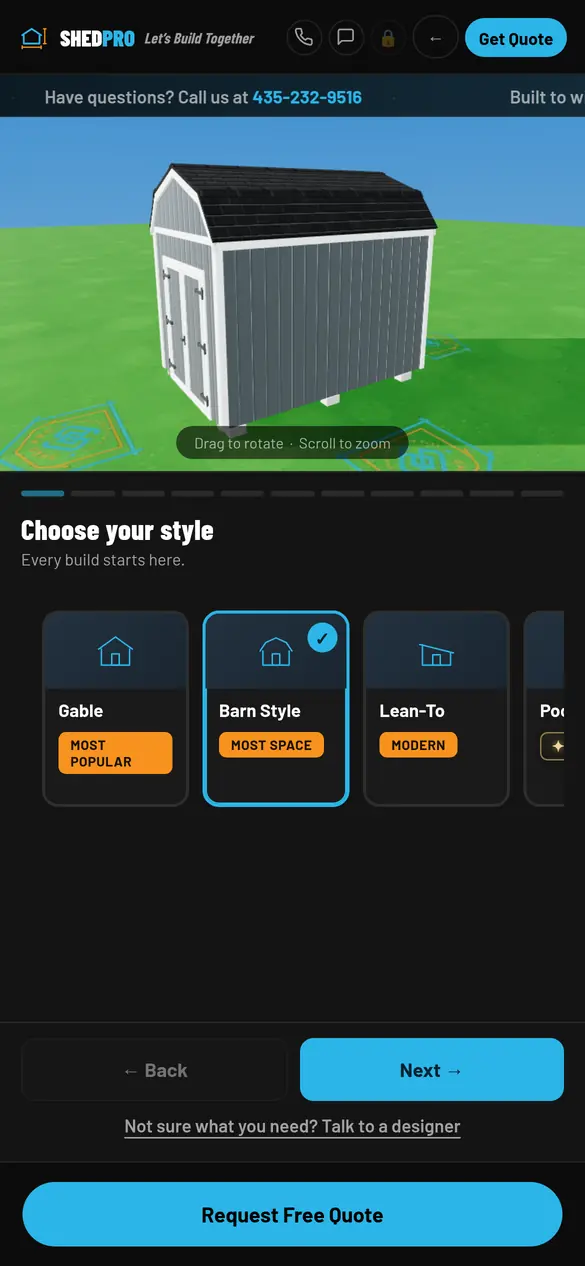
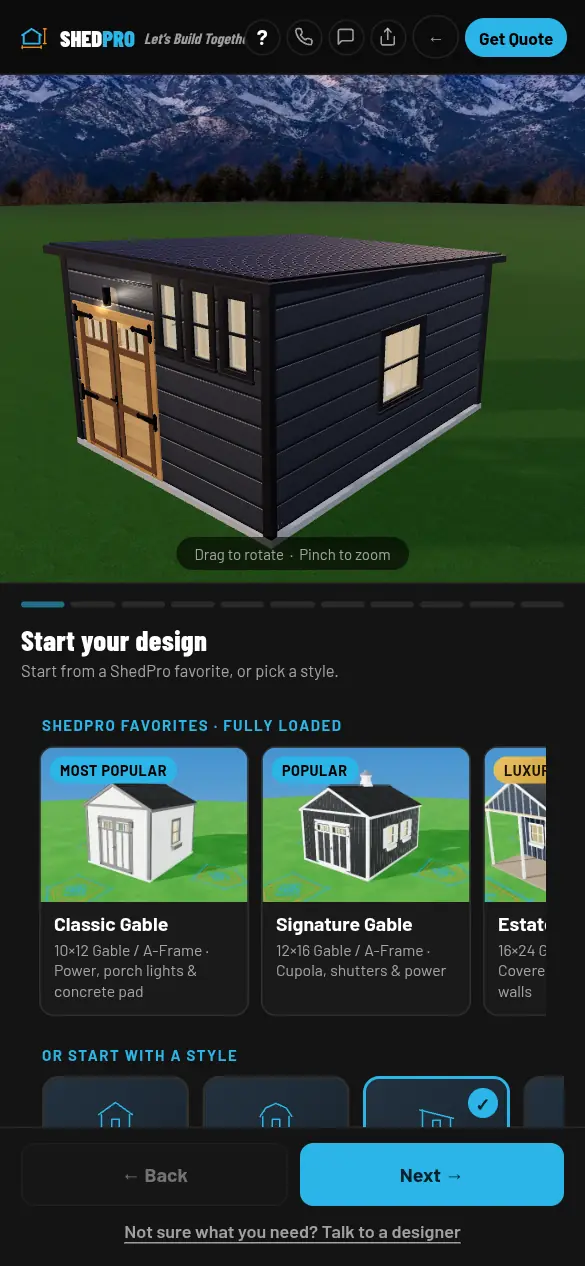
Designer trust + lean-to: Modern Studio gets three vertical transoms under the roofline and one porch light over the door; floating review bubble (home page reviews, verbatim); $500 concrete pad promo on foundation, review and quote (auto-hides Nov 4, 2026); fresh starter thumbnails and home-page de

diff --git a/designer-trust.js b/designer-trust.js
@@ -1,0 +1,253 @@
+/* designer-trust.js — credibility + promo inside the 3D designer.
+   1. A small floating review bubble over the 3D view (bottom-left on desktop,
+      a compact pill above the "Drag to rotate" hint on phones). It rotates
+      through the REAL reviews shown on the home page (#reviews in index.html),
+      copied verbatim with the names exactly as the home page shows them.
+      tests/ui/trust.test.mjs fails if any of them drifts from index.html, so
+      if you edit the home page reviews, paste the same change here.
+      Tap to expand into a card with 3 full reviews; x dismisses it for the
+      session. It steps aside whenever another overlay needs that corner (the
+      resume card, the consult nudge, the wall picker, edit mode, a dialog).
+   2. The "$500 off a concrete pad" promo from the home page (same wording,
+      same end date, same auto-hide on Nov 4, 2026). Display only: it does not
+      touch the price, the same as on the home page.
+   If this file fails to load, the designer works exactly as before. */
+(function(){
+'use strict';
+var DT = window.DT = window.DT || {};
+
+/* ── 1. REVIEWS (verbatim from index.html #reviews) ── */
+var REVIEWS = [
+  {"src": "google", "name": "Steven E.", "label": "Google review", "stars": 5, "text": "The people at ShedproUT did a fantastic job. They communicated well, they did what they said they were going to do and at a fair price. The workmanship Is great. I look forward to enjoying the shed for years."},
+  {"src": "facebook", "name": "Ashley M.", "label": "Facebook recommendation", "stars": null, "text": "Christian with Shed Pro is incredible! He came over to our home to give us a quote, gave us a few options and worked with what we had. Incredibly professional and easy going guy. Shed was put up in one day and is perfection! Communication was great, did exactly what we asked him to, I will only recommend him from now on. He is very competitive in his prices, and his work is top notch. Stop looking and go with Shed Pro!"},
+  {"src": "google", "name": "Steve P.", "label": "Google review", "stars": 5, "text": "The team from Shedpro did an amazing job of building our shed. We are delighted to have our new shed! The workmanship is excellent and the shed looks so nice! They communicated well and asked great questions to build it to the specifications that we wanted. Thank you! Thank you!"},
+  {"src": "facebook", "name": "Klay H.", "label": "Facebook recommendation", "stars": null, "text": "Christian and his crew came over and completed the project in one day. They were super professional, they did an incredible job, and the customer service was awesome! Before they finished up, they asked me to come take a look and see if everything was done how I had wanted. The entire project was done with a lot of attention to detail, and everything that they said they would do, was completed professionally! I would totally recommend these guys!"},
+  {"src": "google", "name": "Abi S.", "label": "Google review", "stars": 5, "text": "Christian is very professional, super reliable and extremely knowledgeable. He came out and helped design a beautiful shed that fit the space, the work was done without cutting corners, you can tell everything was done right and will last. We're so happy we went with his company and would 100% recommend"},
+  {"src": "facebook", "name": "Liz J.", "label": "Facebook recommendation", "stars": null, "text": "We had a great experience with Shed Pro! They exceeded our expectations and had no problem with some changes we made on the day of the build. Their attention to detail is phenomenal and we highly recommend them!"},
+  {"src": "google", "name": "Kseniya T.", "label": "Google review", "stars": 5, "text": "Fast and on-budget! We talked about designs on a Saturday and it was complete on Thursday, and they were able to accommodate all my special requests. Christian and his crew are so skilled and efficient, and left barely a screw or nail behind when they were done. Highly recommend!"},
+  {"src": "facebook", "name": "Staci G.", "label": "Facebook recommendation", "stars": null, "text": "Cristian was great to work with. Wonderful communication through the entire process and very patient with all my questions. Shed looks great and very well built. I will be telling everyone I know about Shed Pro."},
+  {"src": "google", "name": "Amanda C.", "label": "Google review", "stars": 5, "text": "Love love how my she-shed turned out! Christian and his crew came out and built it on site and it only took them two days to do so. I love it! Great communication also :)"},
+  {"src": "facebook", "name": "Sharla H.", "label": "Facebook recommendation", "stars": null, "text": "Shed Pro did such a great job. I had a small back corner on my lot and needed extra storage. They built the shed onsite and I got maximum storage for my space. Quality work, high quality, easy to work with! It looks great. I'm so pleased!"},
+  {"src": "google", "name": "Austen W.", "label": "Google review", "stars": 5, "text": "I’ve been debating building my own shed for years now. Once they came out and gave me a bid, I finally went with them. Best decision ever. What took them only 4-5 hours, would’ve taken me all summer. Superb quality, and it was exactly what I wanted. Highly recommend!"},
+  {"src": "facebook", "name": "Rachel M.", "label": "Facebook recommendation", "stars": null, "text": "Shed Pro did an incredible job for us! We did a 12x14 barn style shed and they finished it in one day! I love how you can customize it to fit your budget and their prices were way better then any shed lot around or Home Depot. Highly recommend! We love our shed!"},
+  {"src": "google", "name": "Scott H.", "label": "Google review", "stars": 5, "text": "I am very happy with my shed they built, they were very fast, they were there on time, and the quality is top notch!\nEverything I asked for they did, they were very kind and great to work with!! I would strongly recommend going with Shed Pro."},
+  {"src": "google", "name": "Brian F.", "label": "Google review", "stars": 5, "text": "Six Stars! Shed Pro was easy to work with and did custom work fast. A high quality build at pricing below HomeDepot. It was a joy to work with them!"},
+  {"src": "google", "name": "Rubi G.", "label": "Google review", "stars": 5, "text": "The customer service provided by ShedPro is top notch, and their sheds are absolutley beautiful. They pay great attention to detail, and it really shows in their craftsmanship. Highly recommend!"}
+];
+/* The real totals the home page shows (rating pills + #reviews header). */
+var TOTALS = { google:{rating:'5.0', count:22}, facebook:{rec:'100%', count:21} };
+var ALL_REVIEWS_URL = '/#reviews';
+var GOOGLE_URL = 'https://search.google.com/local/reviews?placeid=ChIJwwlFnLcoHgERAfeFtnSUYNc';
+DT.REVIEWS = REVIEWS; DT.TOTALS = TOTALS;
+
+/* ── 2. PROMO (mirrors index.html PROMO block; remove after Nov 3, 2026) ── */
+var PROMO = {
+  ends: '2026-11-04T00:00:00',          // hides from Nov 4, 2026 (local), like the home page
+  main: '$500 off a concrete pad when you buy a shed.',
+  fine: 'Valid through Nov 3, 2026 while weather allows. Select sizes only. Ask your rep for details.'
+};
+DT.PROMO = PROMO;
+DT.now = function(){ return new Date(); };            // tests override this
+DT.promoActive = function(){ return DT.now() < new Date(PROMO.ends); };
+
+function esc(t){ return String(t==null?'':t).replace(/[&<>"']/g,function(c){return {'&':'&amp;','<':'&lt;','>':'&gt;','"':'&quot;',"'":'&#39;'}[c];}); }
+function ss(k,v){ try{ if(v===undefined) return sessionStorage.getItem(k); sessionStorage.setItem(k,v); }catch(e){ return null; } }
+function reduced(){ try{ return matchMedia('(prefers-reduced-motion: reduce)').matches; }catch(e){ return false; } }
+var STAR='<svg viewBox="0 0 20 20" aria-hidden="true"><path d="M10 1.6l2.6 5.3 5.8.8-4.2 4.1 1 5.8L10 14.9l-5.2 2.7 1-5.8L1.6 7.7l5.8-.8z"/></svg>';
+var GMARK='<svg class="dt-g" viewBox="0 0 48 48" aria-hidden="true"><path fill="#FFC107" d="M43.6 20.1H42V20H24v8h11.3C33.7 32.7 29.2 36 24 36c-6.6 0-12-5.4-12-12s5.4-12 12-12c3.1 0 5.8 1.2 8 3l5.7-5.7C34 6.1 29.3 4 24 4 13 4 4 13 4 24s9 20 20 20 20-9 20-20c0-1.3-.1-2.6-.4-3.9z"/><path fill="#FF3D00" d="M6.3 14.7l6.6 4.8C14.7 15.1 19 12 24 12c3.1 0 5.8 1.2 8 3l5.7-5.7C34 6.1 29.3 4 24 4 16.3 4 9.7 8.3 6.3 14.7z"/><path fill="#4CAF50" d="M24 44c5.2 0 9.9-2 13.4-5.2l-6.2-5.2c-2 1.5-4.5 2.4-7.2 2.4-5.2 0-9.6-3.3-11.3-7.9l-6.5 5C9.5 39.6 16.2 44 24 44z"/><path fill="#1976D2" d="M43.6 20.1H42V20H24v8h11.3c-.8 2.2-2.2 4.2-4.1 5.6l6.2 5.2C37 39.2 44 34 44 24c0-1.3-.1-2.6-.4-3.9z"/></svg>';
+var FMARK='<svg class="dt-g" viewBox="0 0 24 24" aria-hidden="true"><circle cx="12" cy="12" r="12" fill="#1877F2"/><path fill="#fff" d="M13.4 19.5v-6.1h2.1l.3-2.4h-2.4V9.4c0-.7.2-1.2 1.2-1.2h1.3V6.1c-.2 0-1-.1-1.9-.1-1.9 0-3.2 1.2-3.2 3.3V11H8.7v2.4h2.1v6.1z"/></svg>';
+function rating(r){
+  return r.src==='google'
+    ? '<span class="dt-stars" role="img" aria-label="5 out of 5 stars">'+STAR+STAR+STAR+STAR+STAR+'</span>'
+    : '<span class="dt-rec">Recommends</span>';
+}
+function mark(r){ return r.src==='google' ? GMARK : FMARK; }
+
+var DISMISS_KEY='dt_reviews_dismissed';
+var idx=0, timer=null, host=null, expanded=false;
+
+function slideHTML(r){
+  return '<span class="dt-src">'+mark(r)+rating(r)+'</span>'+
+    '<span class="dt-q">\u201C'+esc(r.text.replace(/\s*\n\s*/g,' '))+'\u201D</span>'+
+    '<span class="dt-who">'+esc(r.name)+' \u00B7 '+esc(r.label)+'</span>';
+}
+function cardHTML(){
+  var picks=[0,1,2].map(function(k){ return REVIEWS[(idx+k)%REVIEWS.length]; });
+  return '<div class="dt-card-h"><span class="dt-card-t">What customers say</span>'+
+      '<button type="button" class="dt-x" data-act="collapse" aria-label="Collapse reviews">&#8211;</button></div>'+
+    '<div class="dt-tot"><span class="dt-tg">'+GMARK+'<b>'+TOTALS.google.rating+'</b><span class="dt-stars" aria-hidden="true">'+STAR+STAR+STAR+STAR+STAR+'</span>'+
+      '<span>'+TOTALS.google.count+' Google reviews</span></span>'+
+      '<span class="dt-tg">'+FMARK+'<b>'+TOTALS.facebook.rec+'</b><span>recommend \u00B7 '+TOTALS.facebook.count+' Facebook reviews</span></span></div>'+
+    picks.map(function(r){
+      return '<figure class="dt-rv"><div class="dt-src">'+mark(r)+rating(r)+'</div>'+
+        '<blockquote>'+esc(r.text)+'</blockquote><figcaption>'+esc(r.name)+' \u00B7 '+esc(r.label)+'</figcaption></figure>';
+    }).join('')+
+    '<div class="dt-links"><a href="'+ALL_REVIEWS_URL+'" target="_blank" rel="noopener">See all reviews</a>'+
+      '<a href="'+GOOGLE_URL+'" target="_blank" rel="noopener">Read all '+TOTALS.google.count+' on Google</a></div>';
+}
+function render(){
+  if(!host) return;
+  host.classList.toggle('dt-open', expanded);
+  if(expanded){
+    host.innerHTML='<div class="dt-card" role="dialog" aria-label="ShedPro customer reviews">'+cardHTML()+'</div>';
+  } else {
+    host.innerHTML='<button type="button" class="dt-pill" data-act="expand" aria-label="Customer reviews: 5.0 stars from '+TOTALS.google.count+' Google reviews. Tap to read more.">'+
+        '<span class="dt-slide dt-on" aria-live="off">'+slideHTML(REVIEWS[idx])+'</span></button>'+
+      '<button type="button" class="dt-x dt-dismiss" data-act="dismiss" aria-label="Hide reviews">&times;</button>';
+  }
+}
+function rotate(){
+  if(!host || expanded) return;
+  var cur=host.querySelector('.dt-slide'); if(!cur) return;
+  idx=(idx+1)%REVIEWS.length;
+  cur.classList.remove('dt-on');                       // fade out...
+  setTimeout(function(){                               // ...swap, fade in
+    if(expanded || !host) return;
+    cur.innerHTML=slideHTML(REVIEWS[idx]);
+    cur.classList.add('dt-on');
+  }, 450);
+}
+function start(){ stop(); if(!reduced()) timer=setInterval(rotate, 7000); }
+function stop(){ if(timer){ clearInterval(timer); timer=null; } }
+DT.rotate=rotate;
+
+/* Things that own the bottom of the 3D view while they are up. */
+function shown(el){
+  if(!el) return false;
+  var s=getComputedStyle(el);
+  return s.display!=='none' && s.visibility!=='hidden' && parseFloat(s.opacity)>0.05 && el.offsetWidth>0;
+}
+function blocked(){
+  return shown(document.getElementById('duResume')) || shown(document.getElementById('consultNudge')) ||
+    shown(document.getElementById('wallPick')) || shown(document.getElementById('editBadge')) ||
+    shown(document.getElementById('toast')) || !!document.querySelector('.du-overlay, .dinfo[style*="flex"]') ||
+    covers(document.getElementById('subPage'));
+}
+/* A panel (the quote form, option sub-pages) that is drawn over the 3D view. */
+function covers(el){
+  if(!host || !shown(el)) return false;
+  var a=el.getBoundingClientRect(), b=host.getBoundingClientRect();
+  return a.left<b.right && a.right>b.left && a.top<b.bottom && a.bottom>b.top;
+}
+function syncVisible(){
+  if(!host) return;
+  var hide=blocked();
+  if(hide && expanded){ expanded=false; render(); }
+  host.classList.toggle('dt-hidden', hide);
+}
+DT.syncVisible=syncVisible;
+
+function mountBubble(){
+  if(ss(DISMISS_KEY)==='1') return;
+  var vp=document.querySelector('.vp'); if(!vp || document.getElementById('dtBubble')) return;
+  host=document.createElement('div');
+  host.id='dtBubble'; host.className='dt-bub';
+  if(reduced()) host.classList.add('dt-static');
+  host.setAttribute('role','complementary'); host.setAttribute('aria-label','Customer reviews');
+  vp.appendChild(host);
+  host.addEventListener('click', function(e){
+    var b=e.target.closest('[data-act]'); if(!b) return;
+    e.stopPropagation();
+    var a=b.getAttribute('data-act');
+    if(a==='expand'){ expanded=true; render(); stop(); var x=host.querySelector('.dt-x'); if(x) try{ x.focus(); }catch(_){}
+      if(window.DU && DU.track) DU.track('reviews_bubble_opened',{}); }
+    else if(a==='collapse'){ expanded=false; render(); start(); }
+    else if(a==='dismiss'){ ss(DISMISS_KEY,'1'); stop(); host.remove(); host=null; }
+  });
+  // Pointer events on the bubble must not rotate the shed underneath it.
+  ['pointerdown','mousedown','touchstart','wheel'].forEach(function(t){
+    host.addEventListener(t, function(e){ e.stopPropagation(); }, {passive:true});
+  });
+  document.addEventListener('keydown', function(e){ if(e.key==='Escape' && expanded){ expanded=false; render(); start(); } });
+  render(); start(); syncVisible();
+  setInterval(syncVisible, 400);
+}
+
+/* ── promo placements ── */
+DT.promoHTML = function(where){
+  if(!DT.promoActive()) return '';
+  return '<div class="dt-promo" data-promo-ends="2026-11-04" data-where="'+esc(where||'')+'">'+
+    '<span class="dt-promo-tag">Limited-time offer</span>'+
+    '<span class="dt-promo-main"><strong>$500 off a concrete pad</strong> when you buy a shed.</span>'+
+    '<span class="dt-promo-fine">'+esc(PROMO.fine)+'</span></div>';
+};
+function mountFoundationPromo(){
+  var list=document.getElementById('foundationList'); if(!list || document.getElementById('dtPromoFoundation')) return;
+  var h=DT.promoHTML('foundation'); if(!h) return;
+  var w=document.createElement('div'); w.id='dtPromoFoundation'; w.innerHTML=h;
+  list.parentNode.insertBefore(w, list);
+}
+function hookReview(){
+  if(!window.DU || !DU.renderReview || DU.renderReview._dt) return;
+  var orig=DU.renderReview;
+  DU.renderReview=function(host){
+    var r=orig.apply(this, arguments);
+    try{
+      var h=DT.promoHTML('review');
+      if(h && host && !host.querySelector('.dt-promo')){
+        var act=host.querySelector('.du-rv-actions');
+        var d=document.createElement('div'); d.innerHTML=h;
+        host.insertBefore(d.firstChild, act||null);
+      }
+    }catch(e){}
+    return r;
+  };
+  DU.renderReview._dt=true;
+}
+
+var CSS=''+
+'.dt-bub{position:absolute;left:14px;bottom:14px;z-index:60;max-width:300px;font-family:inherit;transition:opacity .3s ease}'+
+'.dt-bub.dt-hidden{opacity:0;pointer-events:none}'+
+'.dt-pill{display:flex;flex-direction:column;gap:3px;text-align:left;width:100%;background:rgba(20,22,26,.86);color:#fff;border:1px solid rgba(255,255,255,.14);border-radius:12px;padding:9px 30px 9px 11px;cursor:pointer;font:inherit;box-shadow:0 6px 18px rgba(0,0,0,.35);-webkit-backdrop-filter:blur(6px);backdrop-filter:blur(6px)}'+
+'.dt-pill:focus-visible,.dt-x:focus-visible,.dt-links a:focus-visible{outline:2px solid #2BB5E8;outline-offset:2px}'+
+'.dt-slide{display:flex;flex-direction:column;gap:3px;opacity:0;transition:opacity .45s ease}.dt-slide.dt-on{opacity:1}'+
+'.dt-static .dt-slide,.dt-static{transition:none}'+
+'.dt-src{display:flex;align-items:center;gap:5px;line-height:1}'+
+'.dt-g{width:14px;height:14px;flex:none}'+
+'.dt-stars{display:inline-flex;gap:1px}.dt-stars svg{width:11px;height:11px;fill:#FBBC04}'+
+'.dt-rec{font-size:10.5px;font-weight:700;color:#8fb7ff;letter-spacing:.02em}'+
+'.dt-q{font-size:12px;line-height:1.35;color:#e9edf1;display:-webkit-box;-webkit-line-clamp:2;-webkit-box-orient:vertical;overflow:hidden}'+
+'.dt-who{font-size:10.5px;color:#9aa4ae;font-weight:600}'+
+'.dt-x{position:absolute;top:4px;right:4px;width:24px;height:24px;border:0;border-radius:50%;background:transparent;color:#9aa4ae;font-size:16px;line-height:1;cursor:pointer;display:flex;align-items:center;justify-content:center}'+
+'.dt-x:hover{color:#fff;background:rgba(255,255,255,.08)}'+
+'.dt-card{position:relative;width:320px;max-width:calc(100vw - 28px);max-height:var(--dt-maxh,420px);overflow-y:auto;background:rgba(20,22,26,.97);color:#fff;border:1px solid rgba(43,181,232,.35);border-radius:14px;padding:12px 14px;box-shadow:0 12px 32px rgba(0,0,0,.5)}'+
+'.dt-card .dt-x{position:static}'+
+'.dt-card-h{display:flex;align-items:center;justify-content:space-between;margin-bottom:6px}'+
+'.dt-card-t{font-size:13px;font-weight:800}'+
+'.dt-tg{display:inline-flex;align-items:center;gap:4px;white-space:nowrap}.dt-tot{display:flex;flex-wrap:wrap;align-items:center;gap:4px 12px;font-size:11px;color:#c6cdd4;margin-bottom:8px}.dt-tot b{color:#fff}.dt-sep{opacity:.5;margin:0 2px}'+
+'.dt-rv{margin:0;padding:9px 0;border-top:1px solid rgba(255,255,255,.08)}'+
+'.dt-rv blockquote{margin:6px 0 4px;font-size:12.5px;line-height:1.45;color:#e9edf1;white-space:pre-line}'+
+'.dt-rv figcaption{font-size:11px;color:#9aa4ae;font-weight:600}'+
+'.dt-links{display:flex;flex-wrap:wrap;gap:6px 14px;padding-top:9px;border-top:1px solid rgba(255,255,255,.08)}'+
+'.dt-links a{font-size:12px;font-weight:700;color:#2BB5E8;text-decoration:none}.dt-links a:hover{text-decoration:underline}'+
+/* phone: compact one-line pill above the "Drag to rotate" hint */
+'@media (max-width:600px), (max-width:700px) and (max-aspect-ratio:5/7){'+
+  '.dt-bub{left:8px;bottom:36px;max-width:min(260px,calc(100% - 16px))}'+
+  '.dt-pill{padding:6px 28px 6px 9px;border-radius:10px;gap:2px}'+
+  '.dt-slide{gap:2px}.dt-q{font-size:11px;-webkit-line-clamp:1}.dt-who{display:none}'+
+  '.dt-x.dt-dismiss{top:1px;right:1px}'+
+  '.dt-bub.dt-open{bottom:8px;right:8px;max-width:none}.dt-card{width:auto;max-width:none}'+
+'}'+
+'@media (prefers-reduced-motion:reduce){.dt-bub,.dt-slide{transition:none}}'+
+/* promo */
+'.dt-promo{display:flex;flex-wrap:wrap;align-items:center;gap:4px 8px;margin:0 0 10px;padding:9px 11px;border-radius:10px;background:linear-gradient(100deg,rgba(43,181,232,.14),rgba(43,181,232,.03) 70%);border:1px solid rgba(43,181,232,.28)}'+
+'.dt-promo-tag{font-size:9.5px;font-weight:800;letter-spacing:.12em;text-transform:uppercase;color:#06222e;background:#2BB5E8;padding:3px 7px;border-radius:999px;line-height:1}'+
+'.dt-promo-main{font-size:12.5px;color:#fff}.dt-promo-main strong{font-weight:800}'+
+'.dt-promo-fine{flex-basis:100%;font-size:11px;color:#9aa4ae;line-height:1.35}'+
+'.du-rv-note + .dt-promo,.du-rv + .dt-promo{margin-top:10px}';
+
+function maxH(){
+  if(!host) return;
+  var vp=document.querySelector('.vp'); if(vp) host.style.setProperty('--dt-maxh', Math.max(160, vp.clientHeight-28)+'px');
+}
+function init(){
+  if(!document.getElementById('dt-style')){
+    var st=document.createElement('style'); st.id='dt-style'; st.textContent=CSS; document.head.appendChild(st);
+  }
+  mountFoundationPromo();
+  hookReview();
+  mountBubble(); maxH();
+  window.addEventListener('resize', maxH);
+}
+if(document.readyState==='loading') document.addEventListener('DOMContentLoaded', init); else init();
+})();

diff --git a/index.html b/index.html
@@ -1,4 +1,4 @@
-<!DOCTYPE html><html lang="en"><head><noscript></noscript><meta charset="UTF-8"><link rel="preconnect" href="https://fonts.googleapis.com"><link rel="preconnect" href="https://fonts.gstatic.com" crossorigin><link rel="preload" as="style" href="https://fonts.googleapis.com/css2?family=Barlow+Condensed:ital,wght@0,700;0,800;0,900;1,700&family=Barlow:wght@400;500;600;700&display=swap"><link rel="stylesheet" href="https://fonts.googleapis.com/css2?family=Barlow+Condensed:ital,wght@0,700;0,800;0,900;1,700&family=Barlow:wght@400;500;600;700&display=swap"><noscript><link rel="stylesheet" href="https://fonts.googleapis.com/css2?family=Barlow+Condensed:ital,wght@0,700;0,800;0,900;1,700&family=Barlow:wght@400;500;600;700&display=swap"></noscript><meta name="viewport" content="width=device-width, initial-scale=1.0"><title>Utah's #1 Custom Shed Builder | ShedPro LLC</title><meta name="description" content="ShedPro LLC designs and builds custom sheds on-site across Utah, Idaho & surrounding states, by appointment. Power-ready electrical available. Free quote within 24 hours. Utah's #1 custom shed builder."><script>window.dataLayer = window.dataLayer || [];function gtag(){dataLayer.push(arguments);}gtag('js', new Date());gtag('config', 'G-GR8BG7DXZE');</script><link rel="icon" type="image/png" href="ShedPro-Logo.webp"><link rel="preload" href="shed-hero.webp" as="image" fetchpriority="high"><script type="application/ld+json">{"@context": "https://schema.org","@type": "LocalBusiness","name": "ShedPro LLC","description": "Utah's #1 custom shed builder. Custom sheds designed and built on-site, by appointment, across Utah, Idaho & surrounding states.","url": "https://www.shedpro-utah.com","telephone": "+14352770764","email": "info@shedpro-utah.com","areaServed": ["Utah", "Idaho", "Nevada", "Wyoming", "Colorado"],"serviceType": ["Custom Sheds", "Shed Kits"],"sameAs": ["https://www.facebook.com/profile.php?id=100070811200824","https://www.instagram.com/shedprout","https://www.tiktok.com/@shedprout"]}</script><link rel="preload" as="image" href="studio-preview-1.webp" media="(min-width:900px)">
+<!DOCTYPE html><html lang="en"><head><noscript></noscript><meta charset="UTF-8"><link rel="preconnect" href="https://fonts.googleapis.com"><link rel="preconnect" href="https://fonts.gstatic.com" crossorigin><link rel="preload" as="style" href="https://fonts.googleapis.com/css2?family=Barlow+Condensed:ital,wght@0,700;0,800;0,900;1,700&family=Barlow:wght@400;500;600;700&display=swap"><link rel="stylesheet" href="https://fonts.googleapis.com/css2?family=Barlow+Condensed:ital,wght@0,700;0,800;0,900;1,700&family=Barlow:wght@400;500;600;700&display=swap"><noscript><link rel="stylesheet" href="https://fonts.googleapis.com/css2?family=Barlow+Condensed:ital,wght@0,700;0,800;0,900;1,700&family=Barlow:wght@400;500;600;700&display=swap"></noscript><meta name="viewport" content="width=device-width, initial-scale=1.0"><title>Utah's #1 Custom Shed Builder | ShedPro LLC</title><meta name="description" content="ShedPro LLC designs and builds custom sheds on-site across Utah, Idaho & surrounding states, by appointment. Power-ready electrical available. Free quote within 24 hours. Utah's #1 custom shed builder."><script>window.dataLayer = window.dataLayer || [];function gtag(){dataLayer.push(arguments);}gtag('js', new Date());gtag('config', 'G-GR8BG7DXZE');</script><link rel="icon" type="image/png" href="ShedPro-Logo.webp"><link rel="preload" href="shed-hero.webp" as="image" fetchpriority="high"><script type="application/ld+json">{"@context": "https://schema.org","@type": "LocalBusiness","name": "ShedPro LLC","description": "Utah's #1 custom shed builder. Custom sheds designed and built on-site, by appointment, across Utah, Idaho & surrounding states.","url": "https://www.shedpro-utah.com","telephone": "+14352770764","email": "info@shedpro-utah.com","areaServed": ["Utah", "Idaho", "Nevada", "Wyoming", "Colorado"],"serviceType": ["Custom Sheds", "Shed Kits"],"sameAs": ["https://www.facebook.com/profile.php?id=100070811200824","https://www.instagram.com/shedprout","https://www.tiktok.com/@shedprout"]}</script><link rel="preload" as="image" href="studio-preview-1.webp" imagesrcset="studio-preview-1-960.webp 960w, studio-preview-1.webp 1440w" imagesizes="(min-width:900px) 48vw, 94vw" media="(min-width:900px)">
 <style>
 /* ───────────────────────────────────────────────────────────────────────
    HOME PAGE — "sleek" redesign. Every rule here lives in this page's own
@@ -676,11 +676,11 @@ footer{background:#070809;border-top:1px solid var(--border);padding:64px 0 32px
       <div class="browser">
         <div class="browser-bar"><i></i><i></i><i></i><span>shedpro-utah.com/designer</span></div>
         <div class="frames" id="studioFrames">
-          <img class="on" src="studio-preview-1.webp" width="1440" height="900" alt="ShedPro Studio showing a gray gable shed in 3D with the style picker open" decoding="async" data-label="Gable">
-          <img src="studio-preview-2.webp" width="1440" height="900" alt="ShedPro Studio showing the same shed switched to Barn Style" loading="lazy" decoding="async" data-label="Barn Style">
-          <img src="studio-preview-3.webp" width="1440" height="900" alt="ShedPro Studio showing the shed switched to the Poolhouse style" loading="lazy" decoding="async" data-label="Poolhouse">
-          <img src="studio-preview-4.webp" width="1440" height="900" alt="ShedPro Studio showing the shed switched to the 4 Peak style" loading="lazy" decoding="async" data-label="4 Peak">
-          <span class="frame-label" id="frameLabel" aria-hidden="true">Gable</span>
+<img class="on" src="studio-preview-1.webp" srcset="studio-preview-1-960.webp 960w, studio-preview-1.webp 1440w" sizes="(min-width:900px) 48vw, 94vw" width="1440" height="900" alt="ShedPro Studio 3D designer showing the Classic Gable starter build: a white 10x12 Gable / A-Frame shed with black trim, double doors and two porch lights, with the ShedPro favorites panel open" decoding="async" data-label="Gable / A-Frame">
+<img src="studio-preview-2.webp" srcset="studio-preview-2-960.webp 960w, studio-preview-2.webp 1440w" sizes="(min-width:900px) 48vw, 94vw" width="1440" height="900" alt="ShedPro Studio 3D designer showing the Heritage Barn starter build: a sage green 10x20 barn shed with white trim, X-brace doors and a copper cupola" loading="lazy" decoding="async" data-label="Barn">
+<img src="studio-preview-3.webp" srcset="studio-preview-3-960.webp 960w, studio-preview-3.webp 1440w" sizes="(min-width:900px) 48vw, 94vw" width="1440" height="900" alt="ShedPro Studio 3D designer showing the Modern Studio starter build: a charcoal 12x16 lean-to with cedar doors, a row of tall vertical transom windows under the roofline and one porch light over the door" loading="lazy" decoding="async" data-label="Lean-To">
+<img src="studio-preview-4.webp" srcset="studio-preview-4-960.webp 960w, studio-preview-4.webp 1440w" sizes="(min-width:900px) 48vw, 94vw" width="1440" height="900" alt="ShedPro Studio 3D designer showing the Estate Porch Gable starter build: a navy 16x24 Gable / A-Frame shed with a covered front porch and white trim" loading="lazy" decoding="async" data-label="Gable / A-Frame porch">
+          <span class="frame-label" id="frameLabel" aria-hidden="true">Gable / A-Frame</span>
         </div>
       </div>
       <div class="phone" aria-hidden="true"><img src="studio-preview-mobile.webp" width="585" height="1266" alt="" loading="lazy" decoding="async"></div>

diff --git a/designer.html b/designer.html
@@ -2938,15 +2938,23 @@ var STARTER_BUILDS = [
    windows:[{wall:'right',pos:0.3,w:24,h:30,type:'White Vinyl 24x30'},{wall:'right',pos:0.7,w:24,h:30,type:'White Vinyl 24x30'}],
    porchLights:[{wall:'front',pos:0.12,style:'modern'},{wall:'front',pos:0.88,style:'modern'}],
    addons:{flowerboxes:true, fbColor:'white', cupola:'copper'}}},
- {k:'modern-studio', name:'Modern Studio', sub:'12×16 · Cedar doors, metal roof & power', badge:'Modern',
+ {k:'modern-studio', name:'Modern Studio', sub:'12×16 Lean-To · Cedar doors, vertical transoms & power', badge:'Modern',
   img:'designer-starters/modern-studio.webp',
   cfg:{style:'leanto', w:12, l:16, h:9, siding:'horizontal',
    sidingColor:0x3C3F43, trimColor:0x1A1A1A, roofColor:0x1A1A1A, roofType:'metal', ovh:6, ovType:'all4', soffit:'cedar',
    foundation:'pad', elec:'core',
-   doors:[{wall:'front',pos:0.21,style:'cedar',w:60,h:76}],
-   windows:[{wall:'front',pos:0.92,w:36,h:36,type:'Black Vinyl 36x36'},{wall:'right',pos:0.5,w:36,h:36,type:'Black Vinyl 36x36'},
+   doors:[{wall:'front',pos:0.04,style:'cedar',w:60,h:76}],
+   /* Front: a row of three tall, narrow vertical transoms (the existing
+      "Vertical Transom 12x30" option, priced like any other transom) set high
+      under the roofline, evenly spaced across the wall beside the door. cy is
+      explicit so they sit up under the plate instead of at window height.
+      ONE porch light: the auto-placer centres it over the door head. */
+   windows:[{wall:'front',pos:0.611,w:12,h:30,cy:84,type:'Black Transom 12x30'},
+            {wall:'front',pos:0.793,w:12,h:30,cy:84,type:'Black Transom 12x30'},
+            {wall:'front',pos:0.976,w:12,h:30,cy:84,type:'Black Transom 12x30'},
+            {wall:'right',pos:0.5,w:36,h:36,type:'Black Vinyl 36x36'},
             {wall:'left',pos:0.3,w:14,h:36,type:'Black Transom 14x36'},{wall:'left',pos:0.7,w:14,h:36,type:'Black Transom 14x36'}],
-   porchLights:[{wall:'front',pos:0.0,style:'modern'},{wall:'front',pos:0.64,style:'modern'}],
+   porchLights:[{wall:'front',pos:0.04,style:'modern'}],
    addons:{}}}
 ];
 var SHED_USES = STARTER_BUILDS.concat([
@@ -16451,6 +16459,7 @@ function openQ(){
         '<div class="sqbox-s">'+(PRICE_LOCKED?'A ShedPro rep calls within 24 hours to finalize your quote':(W+'x'+L+' ft &middot; estimated price'))+'</div>'+
       '</div>'
     ):'')+
+    ((window.DT && DT.promoHTML) ? DT.promoHTML('quote') : '')+
     '<div class="qsec-lbl">Contact Info</div>'+
     /* The asterisks are not decoration. Nothing on this form said which fields
        were needed, so the first a customer heard of it was the submit button
@@ -17174,6 +17183,7 @@ function consultNudgeInit(sharedDesign){
 </script>
 <script src="designer-upgrade.js"></script>
 <script src="paint-codes.js"></script>
+<script src="designer-trust.js"></script>
 <script src="designer-realism.js"></script>
 <!-- SEO / help panel: real, crawlable copy about the designer, kept OUT of the
      app's way. It is in the HTML so search engines read it, but it only shows
